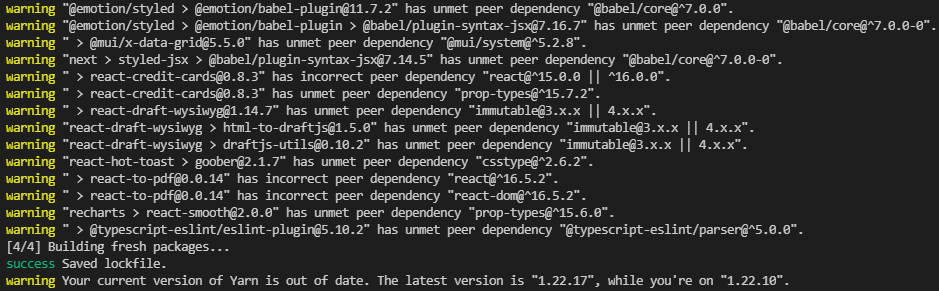
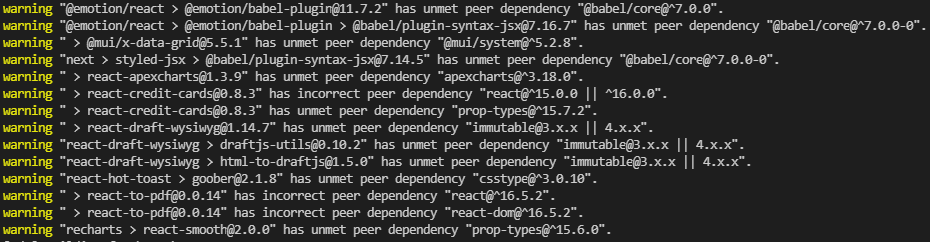
refactor(multi): code refactor
Refactor some doc files
Update an image in docs
Change most of the buttons to primary color in toast page

diff --git a/tsx-version/full-version/src/views/components/toast/ToastCustomPosition.tsx b/tsx-version/full-version/src/views/components/toast/ToastCustomPosition.tsx
@@ -21,7 +21,7 @@ const ToastCustomPosition = () => {
       <ViewGridPlusOutline sx={{ mb: 2, fontSize: '2rem' }} />
       <Typography sx={{ mb: 4, fontWeight: 600 }}>Custom Position</Typography>
       <Typography sx={{ mb: 3 }}>You can change the toast's position as you like.</Typography>
-      <Button color='warning' sx={{ mb: 8 }} variant='contained' onClick={handleClick}>
+      <Button sx={{ mb: 8 }} variant='contained' onClick={handleClick}>
         Position
       </Button>
     </Box>

diff --git a/tsx-version/full-version/src/views/components/toast/ToastThemed.tsx b/tsx-version/full-version/src/views/components/toast/ToastThemed.tsx
@@ -33,7 +33,7 @@ const ToastThemed = () => {
       <PaletteOutline sx={{ mb: 2, fontSize: '2rem' }} />
       <Typography sx={{ mb: 4, fontWeight: 600 }}>Themed</Typography>
       <Typography sx={{ mb: 3 }}>Customize the default styles the way you want.</Typography>
-      <Button sx={{ mb: 8 }} color='success' variant='contained' onClick={handleClick}>
+      <Button sx={{ mb: 8 }} variant='contained' onClick={handleClick}>
         Themed
       </Button>
     </Box>

diff --git a/tsx-version/full-version/src/views/components/toast/ToastCustom.tsx b/tsx-version/full-version/src/views/components/toast/ToastCustom.tsx
@@ -42,7 +42,7 @@ const ToastCustom = () => {
       <PencilOutline sx={{ mb: 2, fontSize: '2rem' }} />
       <Typography sx={{ mb: 4, fontWeight: 600 }}>Custom</Typography>
       <Typography sx={{ mb: 3 }}>Make a toast using any custom content</Typography>
-      <Button color='info' sx={{ mb: 8 }} variant='contained' onClick={handleClick}>
+      <Button sx={{ mb: 8 }} variant='contained' onClick={handleClick}>
         Custom
       </Button>
     </Box>

diff --git a/docs/faq/installation-errors.md b/docs/faq/installation-errors.md
@@ -4,17 +4,17 @@ sidebarDepth: 0
 
 # Installation errors
 
-Causes of yarn install or npm install issues can be due to various things which include:
+Causes of `yarn install` or `npm install --legacy-peer-deps` issues can be due to various things which include:
 
 - Missing or inappropriate dependencies like node or some other environmental issues
-- Dependency resolved by package manager (yarn/npm) conflict with other installed dependency
+- Dependency resolved by package manager (yarn/npm) conflicts with other installed dependency
 - The dependency of the package we use have an internal issue or that dependency has some issue with your environment
 - Package or dependency of the package requires some additional step or configuration to work in your environment
 - Downloaded package is broken or is tampered with.
 
 To resolve such installation issues:
 
-- Try using yarn if possible (Recommended)
+- Try using yarn if possible (recommended)
 - Please try downloading the fresh package/zip and performing the installation again
 - Please make sure you are using the LTS version of node which is recommended and not one with the latest features
 - Try running the `yarn cache clean` or `npm cache clean` command.
@@ -23,6 +23,6 @@ After following the steps explained above, if you are still getting any errors, 
 
 - Your OS information, Node version, yarn/npm version, Template/Package version
 - Mention if you can run a fresh react project using `create-next-app` without our template
-- Attach log file of the error you are getting in your console (Provide full log)
+- Attach log file of the error you are getting in your console (provide full log)
 - Mention which command you are running
 - Mention if you were able to run our template on one machine and not on another.

diff --git a/docs/guide/overview/installation.md b/docs/guide/overview/installation.md
@@ -14,12 +14,12 @@ Yarn package manager is recommended
 Please make sure you use the node’s LTS version which is recommended by the official node site and not the one with the latest features or previous versions. Our project is not tested to work with other Node versions.
 :::
 
-::: danger Important
+::: danger Important!
 Before installing the **node_modules** make sure you have files starting with a **dot(.eslintrc, .env etc..)**. It mostly happens when hidden files are not enabled on your machine and you try to copy our template at some other place on your system.
 :::
 
-::: danger Important
-If you decide to use **npm**. Make sure you use following command: **npm install --legacy-peer-deps**
+::: danger Important!
+If you decide to use **npm**, make sure you use following command: **npm install --legacy-peer-deps**
 :::
 
 - After downloading zip, copy this zip to your desired location and then unzip it. **Do not unzip first and then copy files to another location**, it may not be able to run the template due to missing hidden files not copied over.

diff --git a/docs/faq/installation-warnings.md b/docs/faq/installation-warnings.md
@@ -4,7 +4,7 @@ sidebarDepth: 0
 
 # Installation warnings
 
-You might get some warnings while running `yarn install` or `npm install` like below:
+You might get some warnings while running `yarn install` or `npm install --legacy-peer-deps` like below:
 
 <img alt='installation warnings' class='medium-zoom' :src="$withBase('/images/faqs/installation-warnings.png')" />
 
@@ -14,4 +14,4 @@ We always keep our packages up to date when we make a major release. However, th
 
 **Also, check if you're missing files staring with a dot(.eslintrc.json)**
 
-Even if you like to try you can install this packages in fresh React project without our template and you will get the same.
+Even if you like to try, you can install this packages in fresh React project without our template and you will get the same.
